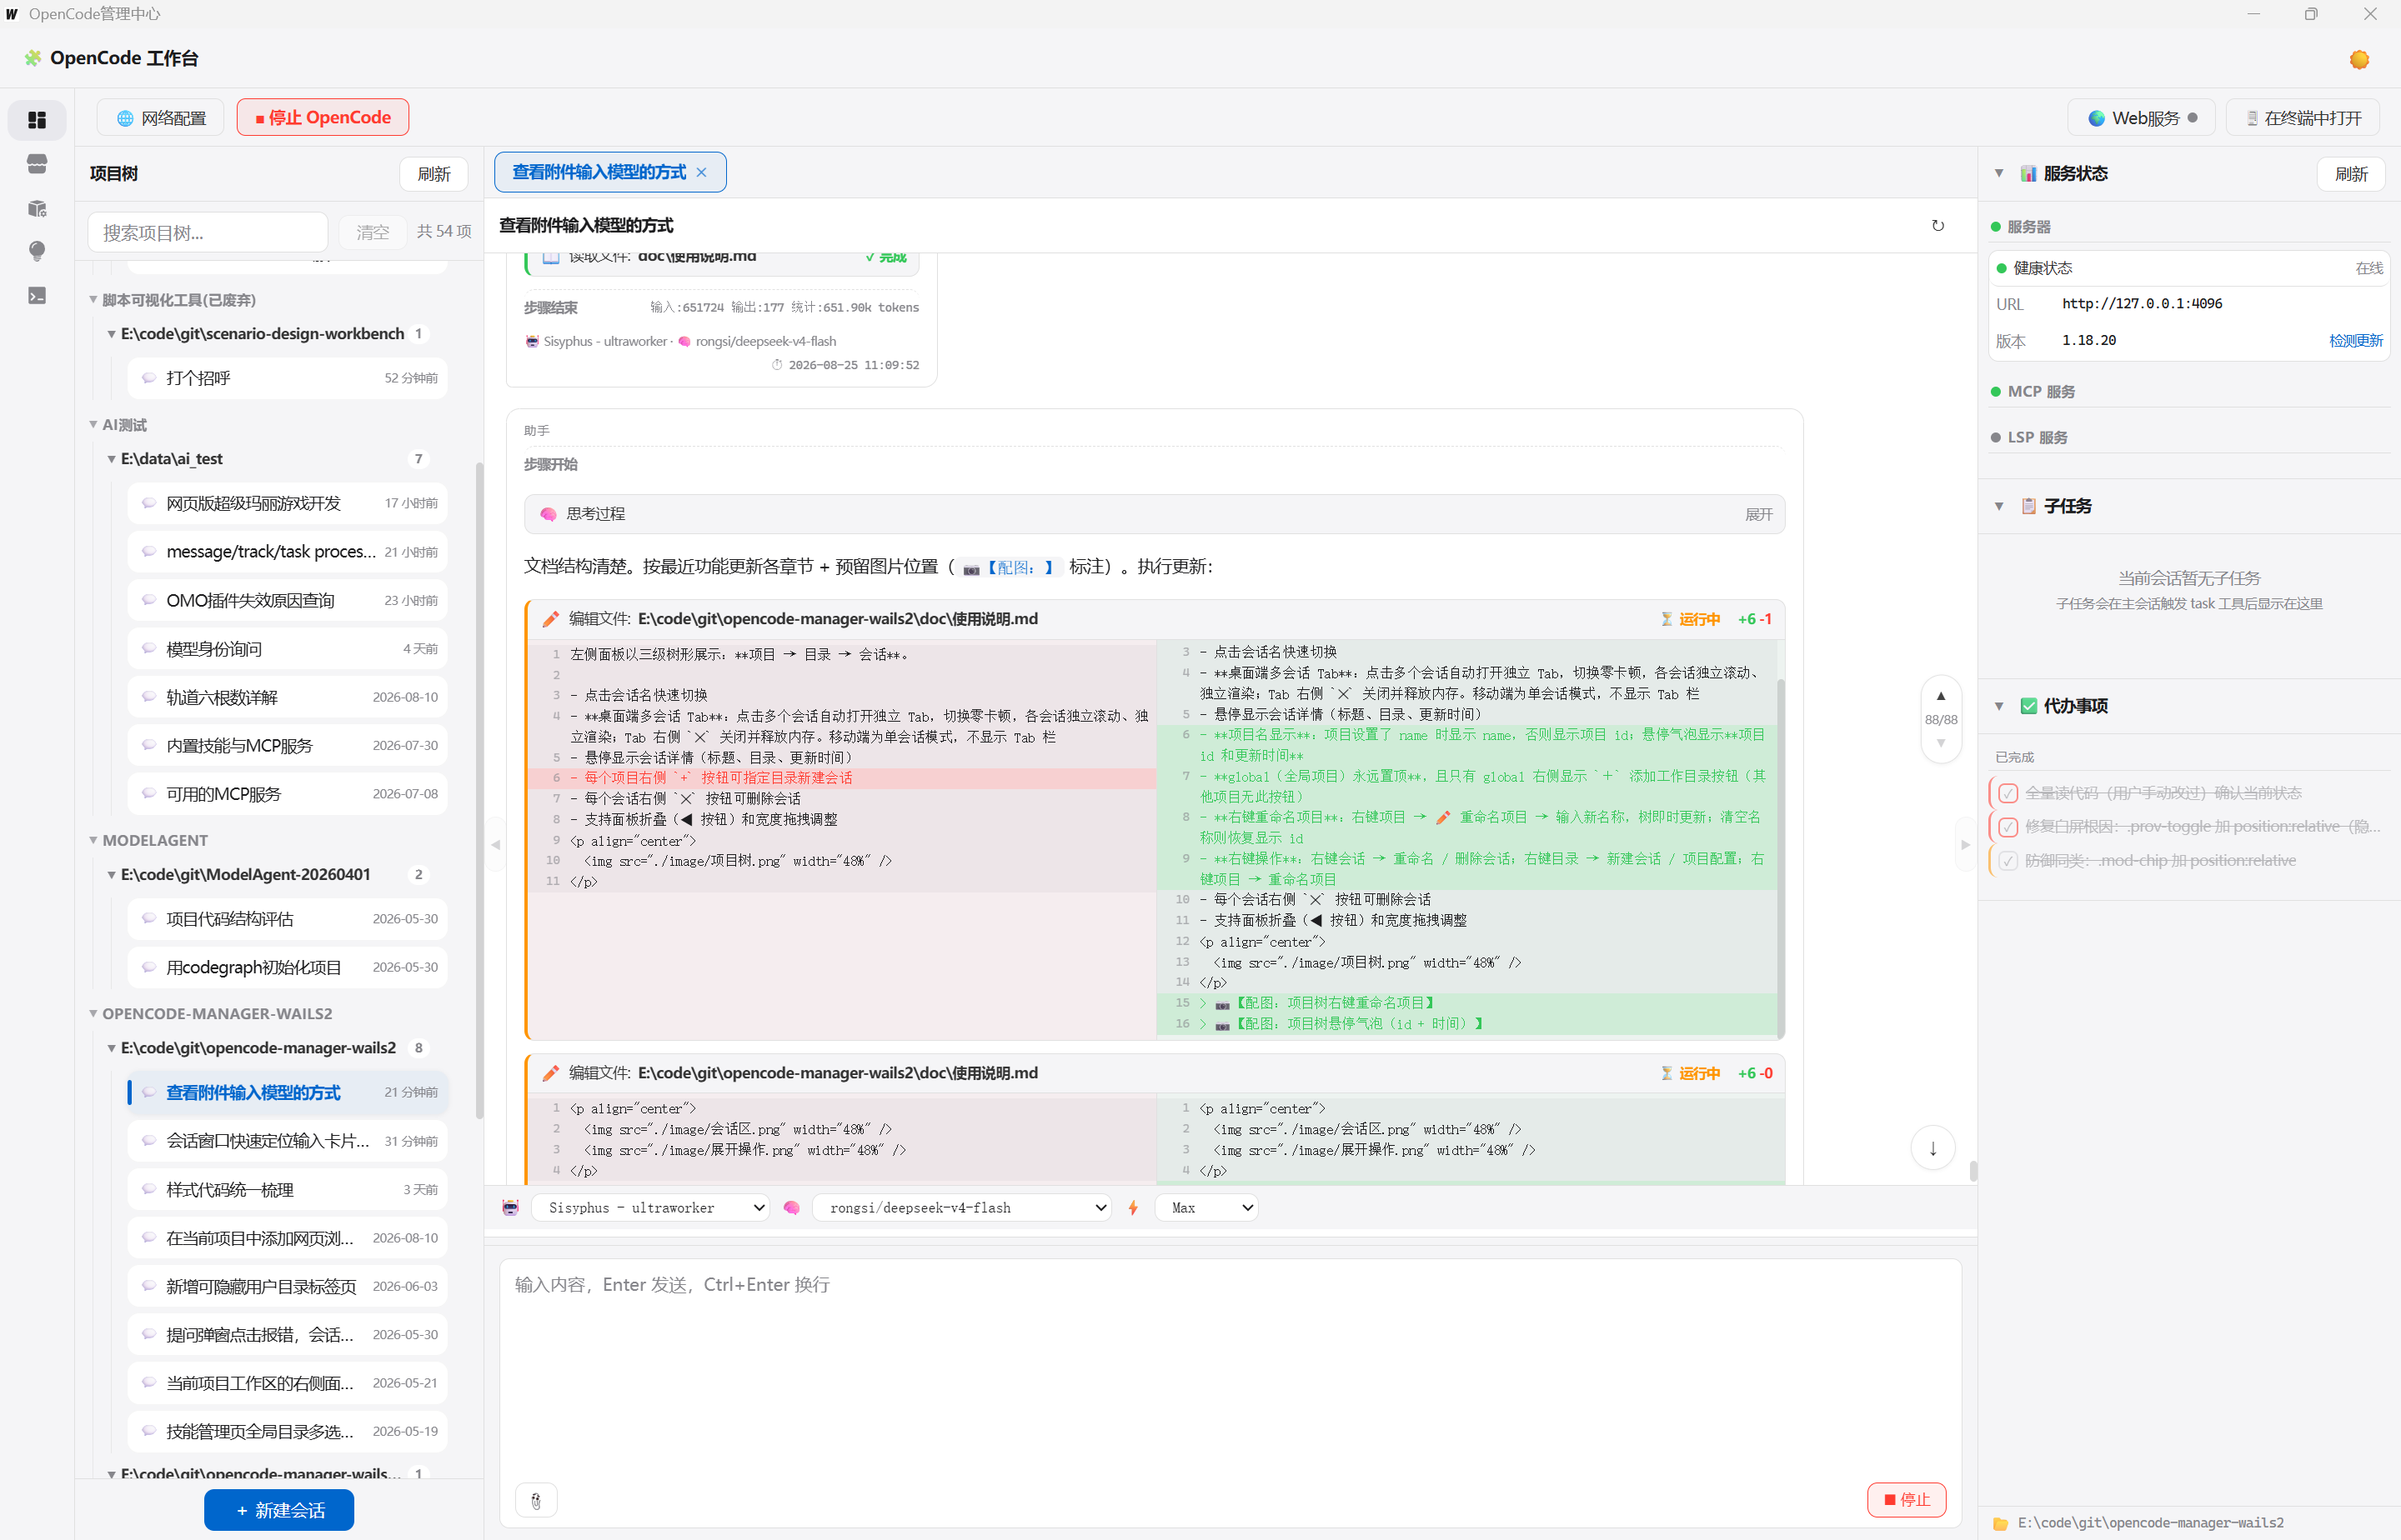
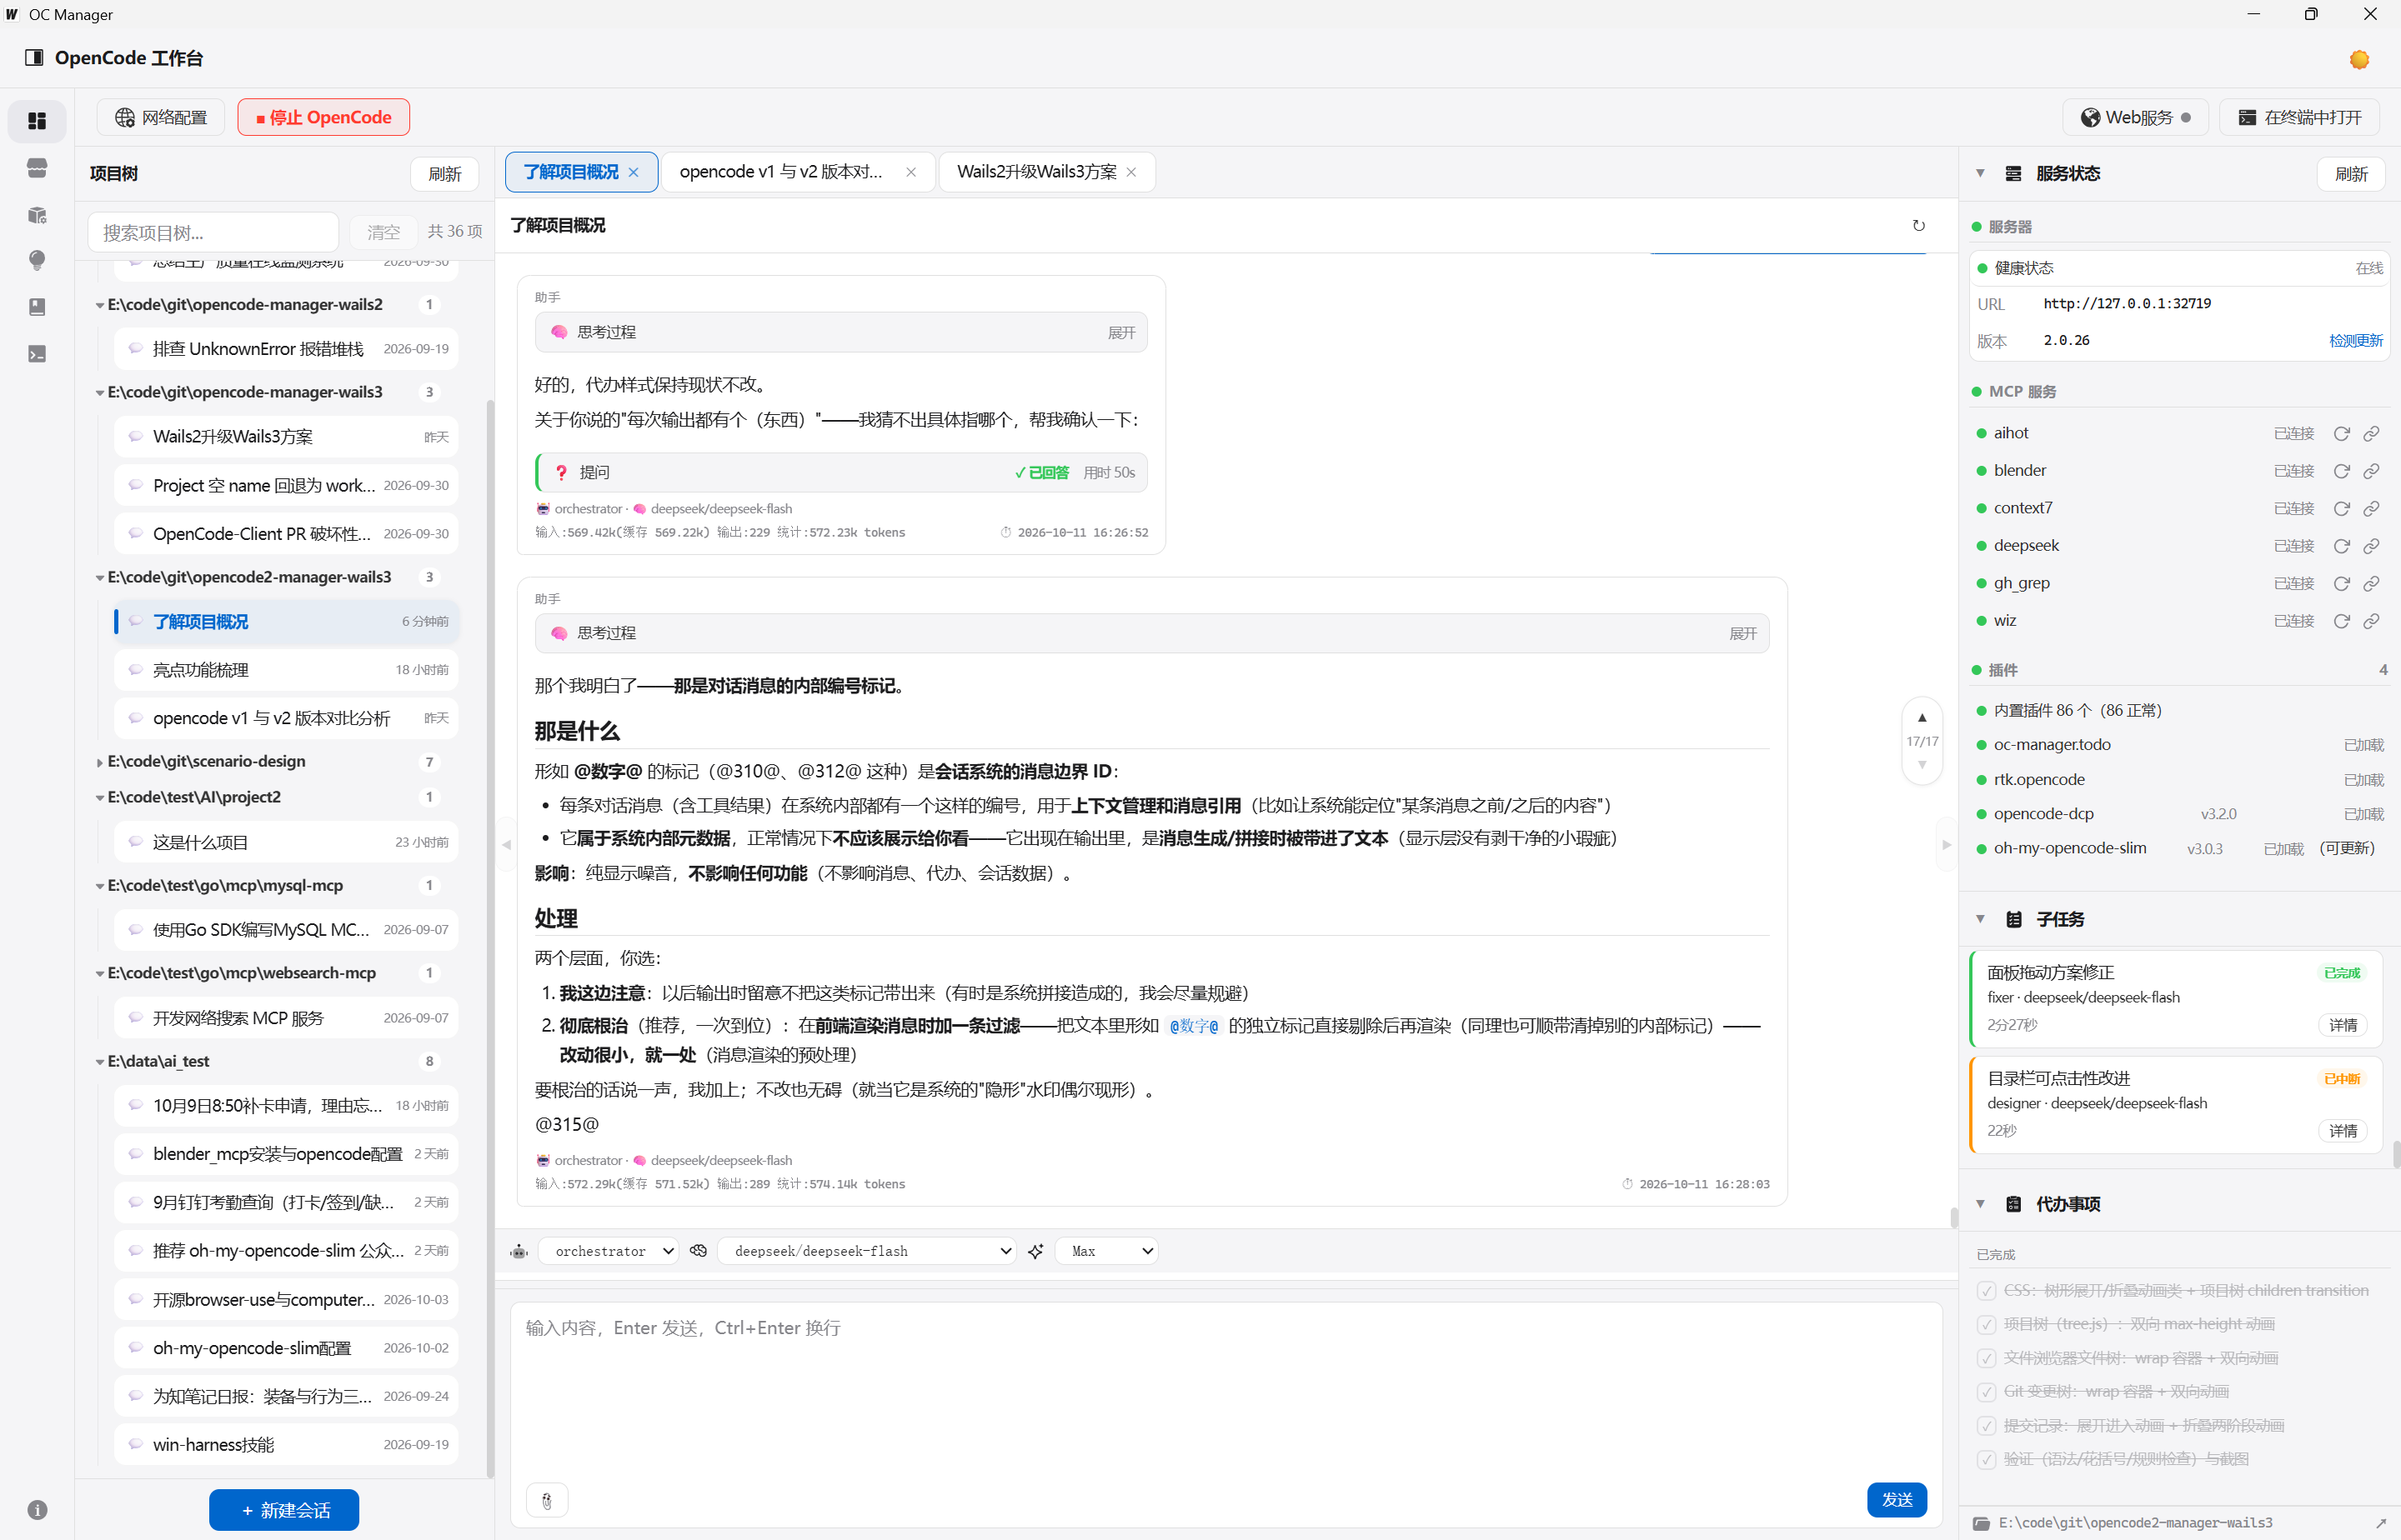
doc:更新readme

diff --git a/README.md b/README.md
@@ -4,12 +4,16 @@
 
 <p align="center">
   <img src="https://img.shields.io/badge/Go-1.25+-00ADD8?logo=go" />
-  <img src="https://img.shields.io/badge/Wails-v3.0.0--beta.23-DF0000?logo=wails" />
+  <img src="https://img.shields.io/badge/Wails-v3.0.0--beta.28-DF0000?logo=wails" />
   <img src="https://img.shields.io/badge/三端-Windows%20|%20Web%20|%20Mobile-0066cc" />
   <img src="https://img.shields.io/badge/build-passing-brightgreen" />
 </p>
 
 **OC Manager** 是一个精心打造的 [OpenCode](https://github.com/anomalyco/opencode) 可视化管理桌面应用。告别命令行，用直觉操作 AI。
+
+<p align="center">
+  <img src="./doc/image/工作区-light.png" width="100%" />
+</p>
 
 ---
 
